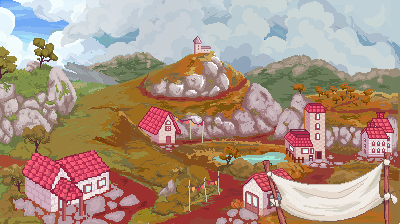
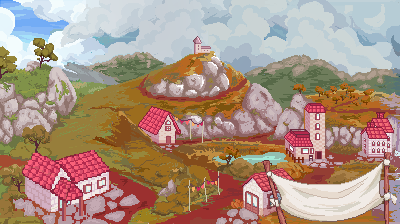
Map State `arreglo de ocmidas

Changed region(s): [[0.93, 0.0938, 1.0, 1.0]]

diff --git a/AnimalCooking/MapState.cpp b/AnimalCooking/MapState.cpp
@@ -35,7 +35,7 @@ MapState::MapState(AnimalCooking* ac) :
 	//Background textures
 	bgText_.push_back(game_->getTextureMngr()->getTexture(Resources::MapStateBackground));
 	bgText_.push_back(game_->getTextureMngr()->getTexture(Resources::MapState2Background));
-	bgText_.push_back(game_->getTextureMngr()->getTexture(Resources::MapState2Background));
+	bgText_.push_back(game_->getTextureMngr()->getTexture(Resources::MapState3Background));
 	//Play and return buttons textures
 	playButtonText_ = new Texture(game_->getRenderer(), "PLAY", game_->getFontMngr()->getFont(Resources::FontId::QuarkCheese100), hex2sdlcolor("#ffffffff"));
 	chooseOption();

diff --git a/AnimalCooking/Resources.cpp b/AnimalCooking/Resources.cpp
@@ -50,6 +50,7 @@ vector<Resources::ImageInfo> Resources::images_{
 	{ Basic, NameAsker, "../AnimalCooking/resources/images/provisional/NameAskerBG.png" },
 	{ Basic, MapStateBackground, "../AnimalCooking/resources/images/Mapstate/mapState.png" },
 	{ Basic, MapState2Background, "../AnimalCooking/resources/images/Mapstate/mapState2.png" },
+	{ Basic, MapState3Background, "../AnimalCooking/resources/images/Mapstate/mapState3.png" },
 	{ Basic, MapStateInfoBox, "../AnimalCooking/resources/images/Mapstate/panelMapInfo.png" },
 
 

diff --git a/AnimalCooking/Resources.h b/AnimalCooking/Resources.h
@@ -52,6 +52,7 @@ public:
 		NameAsker,
 		MapStateBackground,
 		MapState2Background,
+		MapState3Background,
 		MapStateInfoBox,
 		ButtonNext,
 		ButtonPrev,
